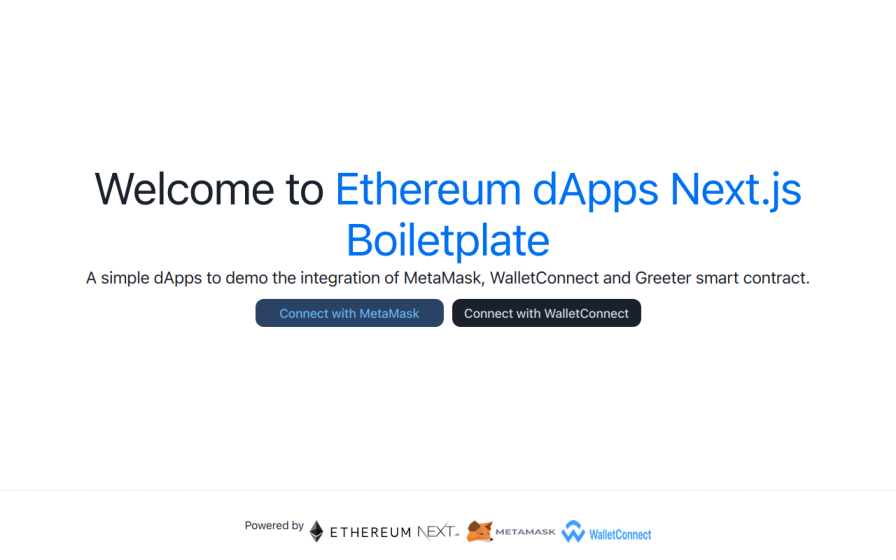
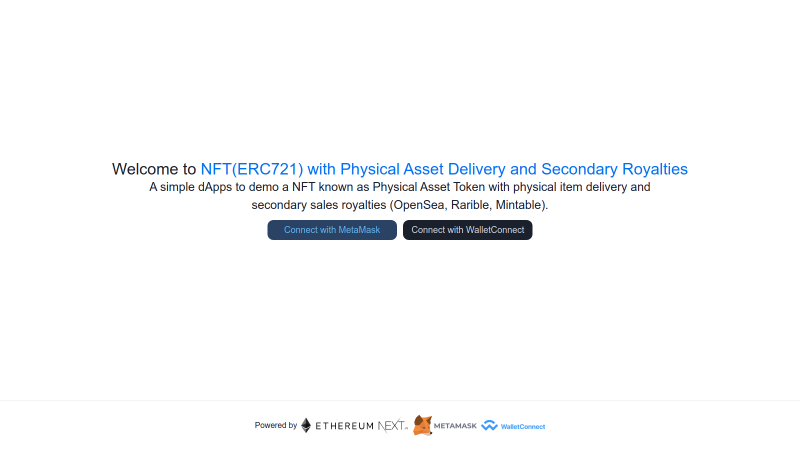
feat: added skynet deployment and updated readme

Changed region(s): [[0.0938, 0.28, 0.9062, 0.5911], [0.2812, 0.9333, 0.75, 0.9644]]

diff --git a/README.md b/README.md
@@ -1,4 +1,4 @@
-# Ethereum dApps Next.js Boiletplate [![PRs Welcome](https://img.shields.io/badge/PRs-welcome-brightgreen.svg?style=flat-square)](http://makeapullrequest.com)
+# Ethereum NFT(ERC721) with Physical Asset Delivery and Secondary Royalties [![PRs Welcome](https://img.shields.io/badge/PRs-welcome-brightgreen.svg?style=flat-square)](http://makeapullrequest.com) [![Add to Homescreen](https://img.shields.io/badge/Skynet-Add%20To%20Homescreen-00c65e?logo=skynet&labelColor=0d0d0d)](https://homescreen.hns.siasky.net/#/skylink/)
 
 <p>
   <img alt="made for ethereum" src="https://img.shields.io/badge/made_for-ethereum-771ea5.svg">
@@ -6,46 +6,57 @@
   <img alt="MIT license" src="https://img.shields.io/badge/license-MIT-blue.svg">
 </p>
 
-The creation of Ethereum dApps Next.js Boiletplate is inspired by a truffle box [truffle-next](https://www.trufflesuite.com/boxes/truffle-next) with the
-following improvements:
- - TypeScript support
- - WalletConnect integration
- - Better UI with Chakra UI
- - JQuery HTML example (without React)
- - Github workflow to run `truffle test` on every `git push` 
+I think the NFT(ERC721) is an important use case that every Solidity developer needs to get familiar with besides ERC20. 
 
-It is tested with [MetaMask](https://metamask.io/) Chrome extension and Android. I think it is good idea to test out [the dApps](https://eth-dapps-nextjs-boiletplate.vercel.app/) yourself before you continue further reading.
+The token known as `Physical Asset Token` with symbol `PA` as its involved physical item delivery. The seller of the NFT needs to specify "Lock From Date" and "Unlock Password" upon the NFT is minting. After the "Lock From Date" the NFT is locked. The buyer would not able to sell/transfer the NFT before he/she receive the physical item which has the "Unlock Password" attached.
 
-The dApps is interacting with a [Greeter smart contract](https://github.com/ethereum/ethereum-org/blob/master/views/content/greeter.md) that running on Rinkeby testnet, hence you need some ETH in your wallet. If you don't have any, you can request some ETH from [Rinkeby Faucet](https://faucet.rinkeby.io/). 
+The project is created by referred to excellent tutorials on [ERC721](https://ethereum-blockchain-developer.com/120-erc721-supply-chain-aisthisi/00-aisthisi-project-overview/) and [Secondary Sales Royalties](https://ethereum-blockchain-developer.com/121-erc721-secondary-sales-royalties-erc2981/00-overview/) published by Thomas Wiesner.
+
+The project is using the following third party libraries to simplify codes:
+- Use `nft.storage` to store the image of the NFT and metadata.json file to the IPFS. You can find out more about nft.storage [here](https://nft.storage/).
+- Use `@openzeppelin/contracts` for implementation of ERC721
+- Reuse the [codes](https://github.com/rarible/protocol-contracts/tree/master/royalties/contracts) of `@rarible/royalties/contracts`.
+- Use `truffle-assertions` for writing unit tests.
+
+It is tested with [MetaMask](https://metamask.io/) Chrome extension and Android. I think it is good idea to test out [the dApp hosted on Skynet]() yourself before looking into the code.
+
+The dApps is interacting with smart contracts running on Rinkeby testnet, hence you need some ETH in your wallet. If you don't have any, you can request some ETH from [Rinkeby Faucet](https://faucet.rinkeby.io/). 
 
 
 ## Smart Contract Development
 The project is bootstrapped with [Truffle](https://www.trufflesuite.com/truffle) using `truffle init` command.
 
-Steps to run the Greeter smart contract locally:
+Steps to run the smart contracts locally:
 1. Clone the github repository. This also takes care of installing the necessary dependencies.
     ```bash
-    git clone git@github.com:limcheekin/eth-dapps-nextjs-boiletplate.git
+    git clone git@github.com:limcheekin/eth-erc721-physical-asset-delivery.git
     ```
 
-2. Install Truffle globally.
+2. Install dependencies in the root directory.
+    ```bash
+    npm i
+    # or
+    yarn
+    ```
+
+3. Install Truffle globally.
     ```bash
     npm install -g truffle
     ```
 
-3. Run the development console in the eth-dapps-nextjs-boiletplate directory.
+4. Run the development console in the root directory of the project.
     ```bash
     truffle develop
     ```
 
-4. Compile and migrate the smart contracts. Note inside the development console we don't preface commands with `truffle`.
+5. Compile and migrate the smart contracts. Note inside the development console we don't preface commands with `truffle`.
     ```bash
     compile
     migrate
     ```
-    Please note down the contract address of the deployed Greeter smart contract. We will need to update it in the front-end code.
+    Please note down the contract address of the deployed smart contracts. We will need to update it in the front-end's `.env.local`.
 
-5. Truffle can run tests written in Solidity or JavaScript against your smart contracts. Note the command varies slightly if you're in or outside of the development console.
+6. Truffle can run tests written in Solidity or JavaScript against your smart contracts. Note the command varies slightly if you're in or outside of the development console.
     ```bash
     // If inside the development console.
     test
@@ -53,20 +64,15 @@ Steps to run the Greeter smart contract locally:
     // If outside the development console.
     truffle test
     ```
-6. Deploy smart contract to Rinkeby testnet
-    - Install dependencies in the root directory.
-        ```bash
-        npm i
-        # or
-        yarn
-        ```
-    - Create a `.env` file with Infura Project ID and private key of your Rinkeby account, for example:
-        ```
-        INFURA_PROJECT_ID=b874a2f145f84dc5a8466e5490816789
-        RINKEBY_PRIVATE_KEY=e0adc9a1b4818153aa47fee3f5160179bbb4f14157a971c133c22e2e35f88c9e
-        ```
-    - Run the `truffle migrate --network rinkeby` command to deploy smart contract to Rinkeby network.
 
+7. Deploy smart contract to Rinkeby testnet
+    - Create a `.env` file with the configuration of Infura Project ID and private key of your Rinkeby account, for example:
+        ```
+        INFURA_PROJECT_ID=Your_Infura_Project_Id
+        RINKEBY_PRIVATE_KEY=Your_Rinkeby_Private_Key
+        ```
+
+    - Run the `truffle migrate --network rinkeby` command to deploy smart contract to Rinkeby network.
 
 
 ## dApps Front End
@@ -84,11 +90,14 @@ Steps to run the client locally:
     # or
     yarn
     ```
-2. Update the following environment variables located in [client/.env.local](client/.env.local):
+
+2. Create the `.env.local` file in the `client` directory and define the following environment variables:
     ```
-    NEXT_PUBLIC_GREETER_CONTRACT_ADDRESS=0x...
-    NEXT_PUBLIC_INFURA_PROJECT_ID=YOUR_INFURA_PROJECT_ID
+    NEXT_PUBLIC_CONTRACT_ADDRESS=0x...
+    NEXT_PUBLIC_INFURA_PROJECT_ID=...
+    NEXT_PUBLIC_NFT_STORAGE_API_KEY=...
     ```
+   As the `.env.local` file is not stored in the repo, for the deployment to Skynet, you need to add the content of the `.env.local` file as `DOT_ENV_DOT_LOCAL` secret.
 
 3. Run the development server
     ```bash
@@ -96,19 +105,34 @@ Steps to run the client locally:
     # or
     yarn dev
     ```
-    Open [http://localhost:3000](http://localhost:3000) with your browser, you will see the screen of the React client:
+    Open [http://localhost:3000](http://localhost:3000) with your browser, you will see the following screen of the React client:
     
-    ![Main Screen](https://github.com/limcheekin/eth-dapps-nextjs-boiletplate/raw/master/doc/images/main.png "Main Screen")
-
-    If React is not your cup of tea, open [http://localhost:3000/static.html](http://localhost:3000/static.html) with your browser, you will see the screen of the JQuery HTML client:
-
-    ![JQuery HTML](https://github.com/limcheekin/eth-dapps-nextjs-boiletplate/raw/master/doc/images/static.png "JQuery HTML")
-
-3. Update the value of the `contractAddress` of the [client/public/static.html](client/public/static.html#L101).
+    ![Main Screen](https://github.com/limcheekin/eth-erc721-physical-asset-delivery/raw/master/doc/images/main.png "Main Screen")
 
 4. Run with MetaMask
     
     As `truffle develop` exposes the blockchain onto port `9545`, you'll need to add a Custom RPC network of `http://localhost:9545` in your MetaMask to make it work.
+
+5. After connected to MetaMask from the main screen, you will see the following screen which allow you to upload image to the IPFS and mint the NFT by click on "Create" button.
+
+    ![Create Screen](https://github.com/limcheekin/eth-erc721-physical-asset-delivery/raw/master/doc/images/create.png "Create Screen") 
+
+6. After the token created successfully click the list tab to view it, you will see the following screen:
+
+    ![List Screen](https://github.com/limcheekin/eth-erc721-physical-asset-delivery/raw/master/doc/images/list.png "List Screen")
+
+7. After the NFT token minted in Rinkeby network, you can view it in the testnet/testsite of the following NFT marketplace:
+    - [OpenSea](https://testnets.opensea.io/assets/0x4e1e053c2515b20ddd66418de11f283bfc7e745a/0)
+      
+        ![OpenSea Screen](https://github.com/limcheekin/eth-erc721-physical-asset-delivery/raw/master/doc/images/opensea.png "OpenSea Screen")
+
+    - [Rarible](https://rinkeby.rarible.com/token/0x4e1e053c2515b20ddd66418de11f283bfc7e745a:0)
+
+        ![Rarible Screen](https://github.com/limcheekin/eth-erc721-physical-asset-delivery/raw/master/doc/images/rarible.png "Rarible Screen")    
+
+    - Mintable
+
+        Response from the Mintable Customer Support on 17 Nov 2021: _"I've made a check with the devs. Our Rinkeby Testnet is currently outdated. The devs are working on it to get it updated, unfortunately, I do not have an ETA on when it'll be updated. Hope this explains!"_
 
 ## Continuous Integration
 The repository setup Continuous Integration build pipeline with GitHub Actions. If you use it as your project template, the first build will fail upon project creation. To fix it, you need to setup the `CC_SECRET` encrypted secret for Codechecks and `DOT_COVERALLS_YML` encrypted secret for Coveralls. Please refer to [Continuous Integration Setup](doc/ContinuousIntegrationSetup.md) for more information.
